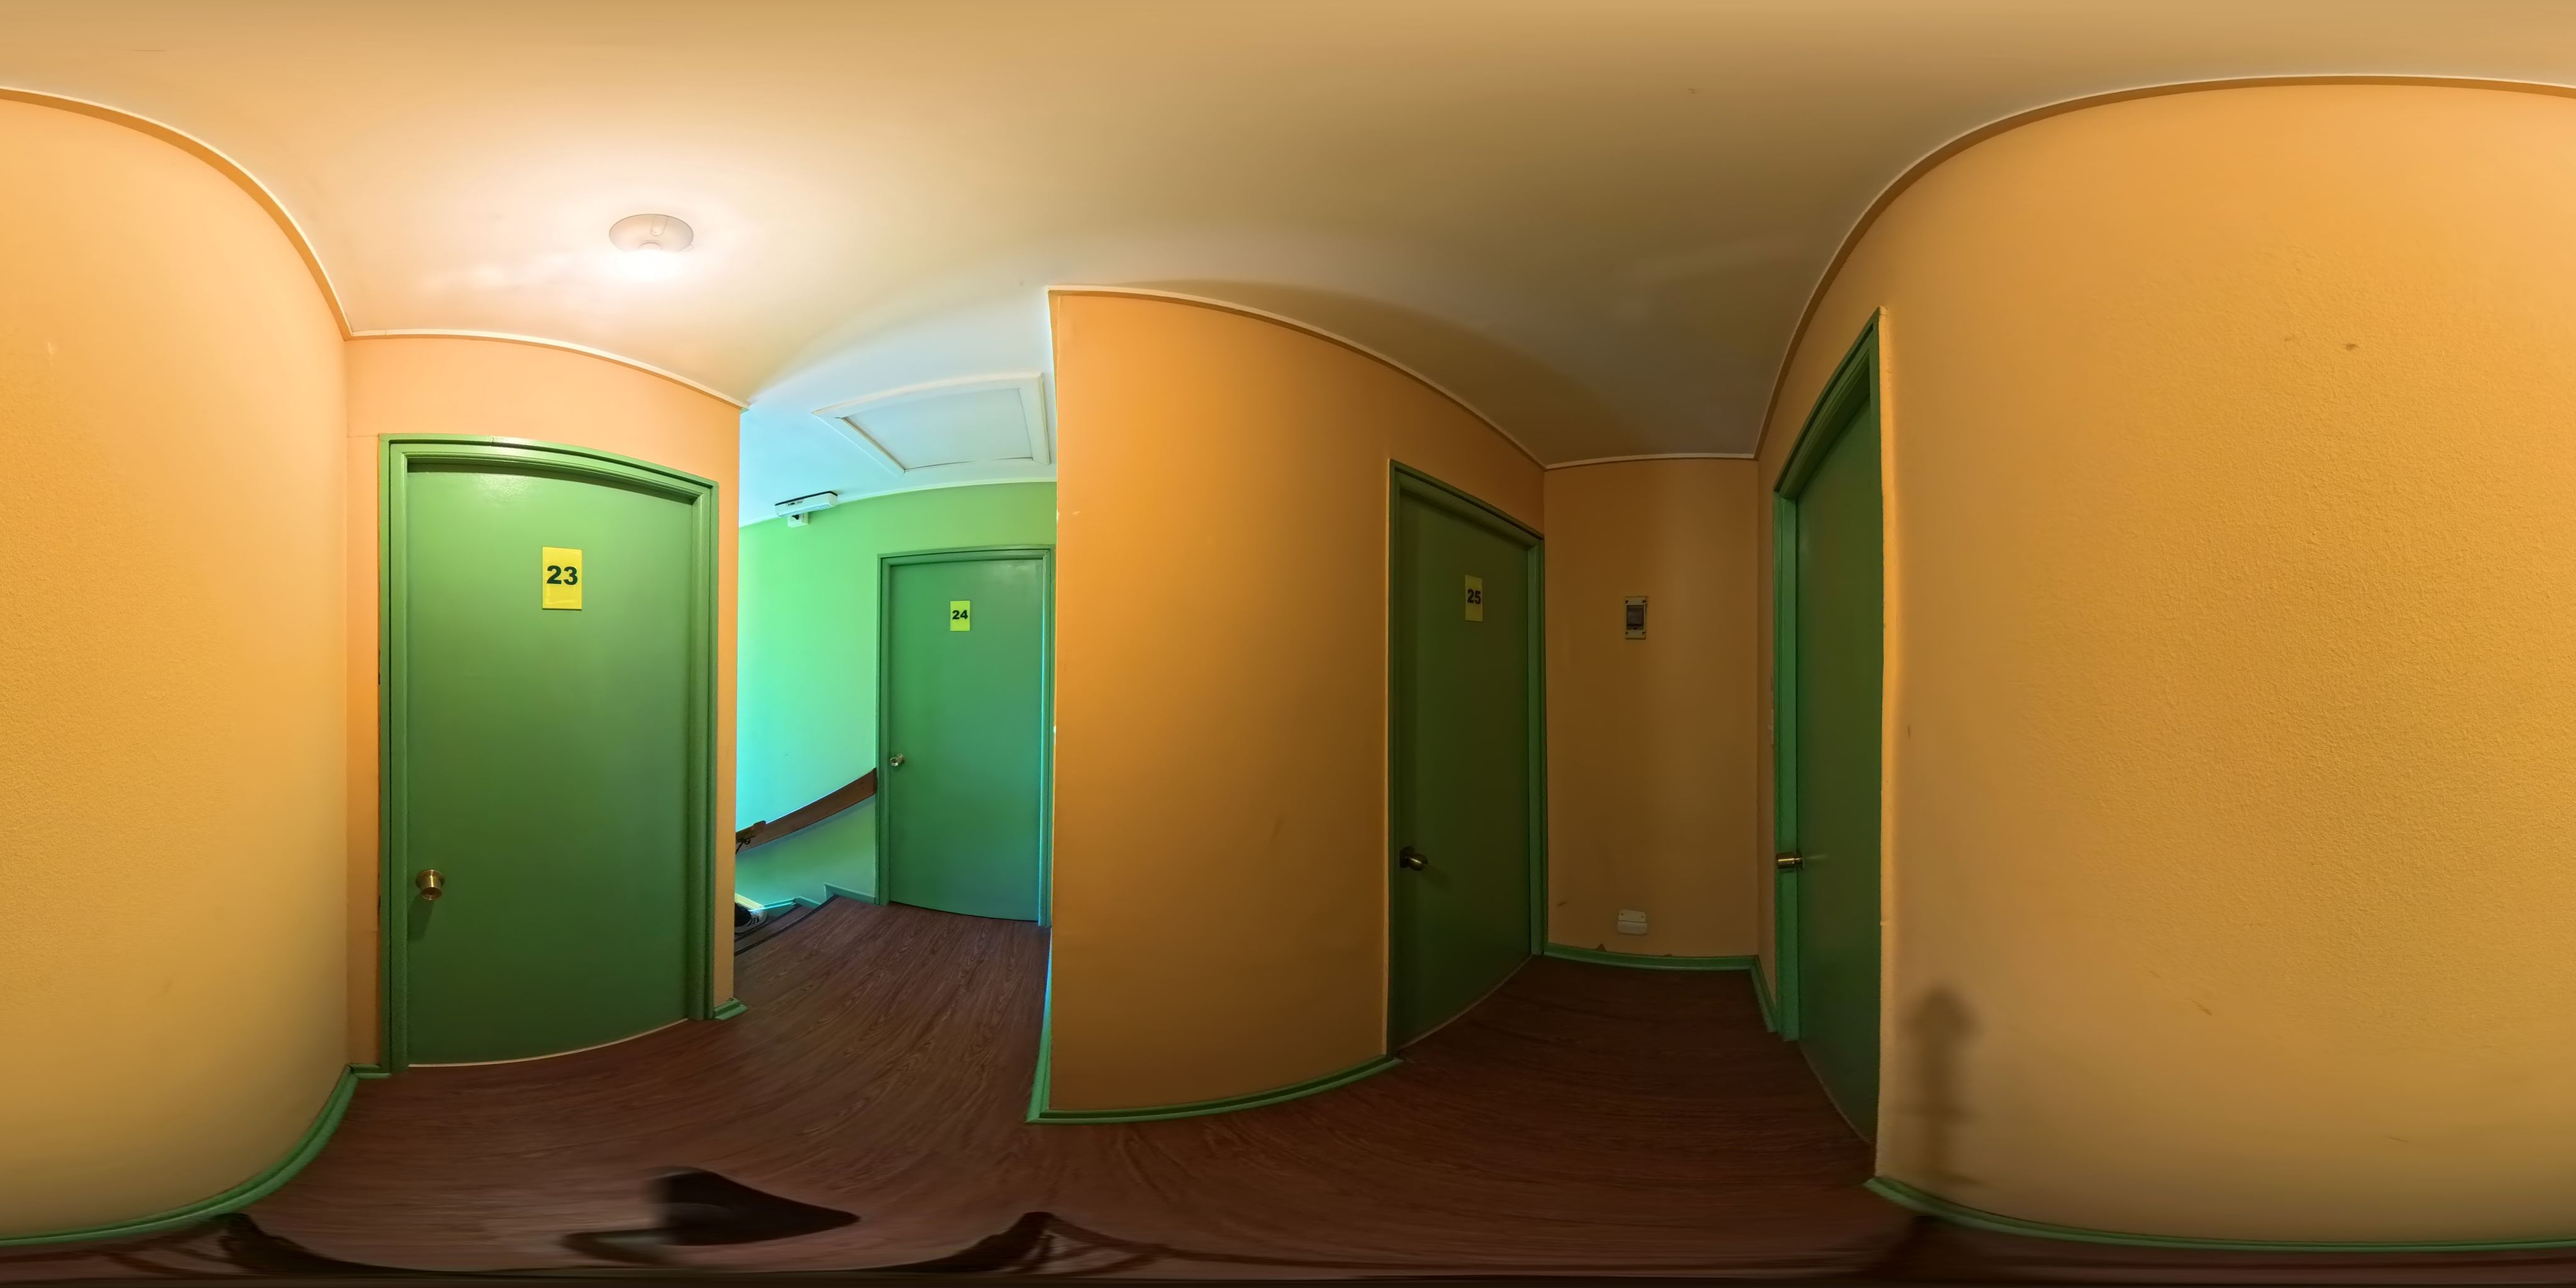
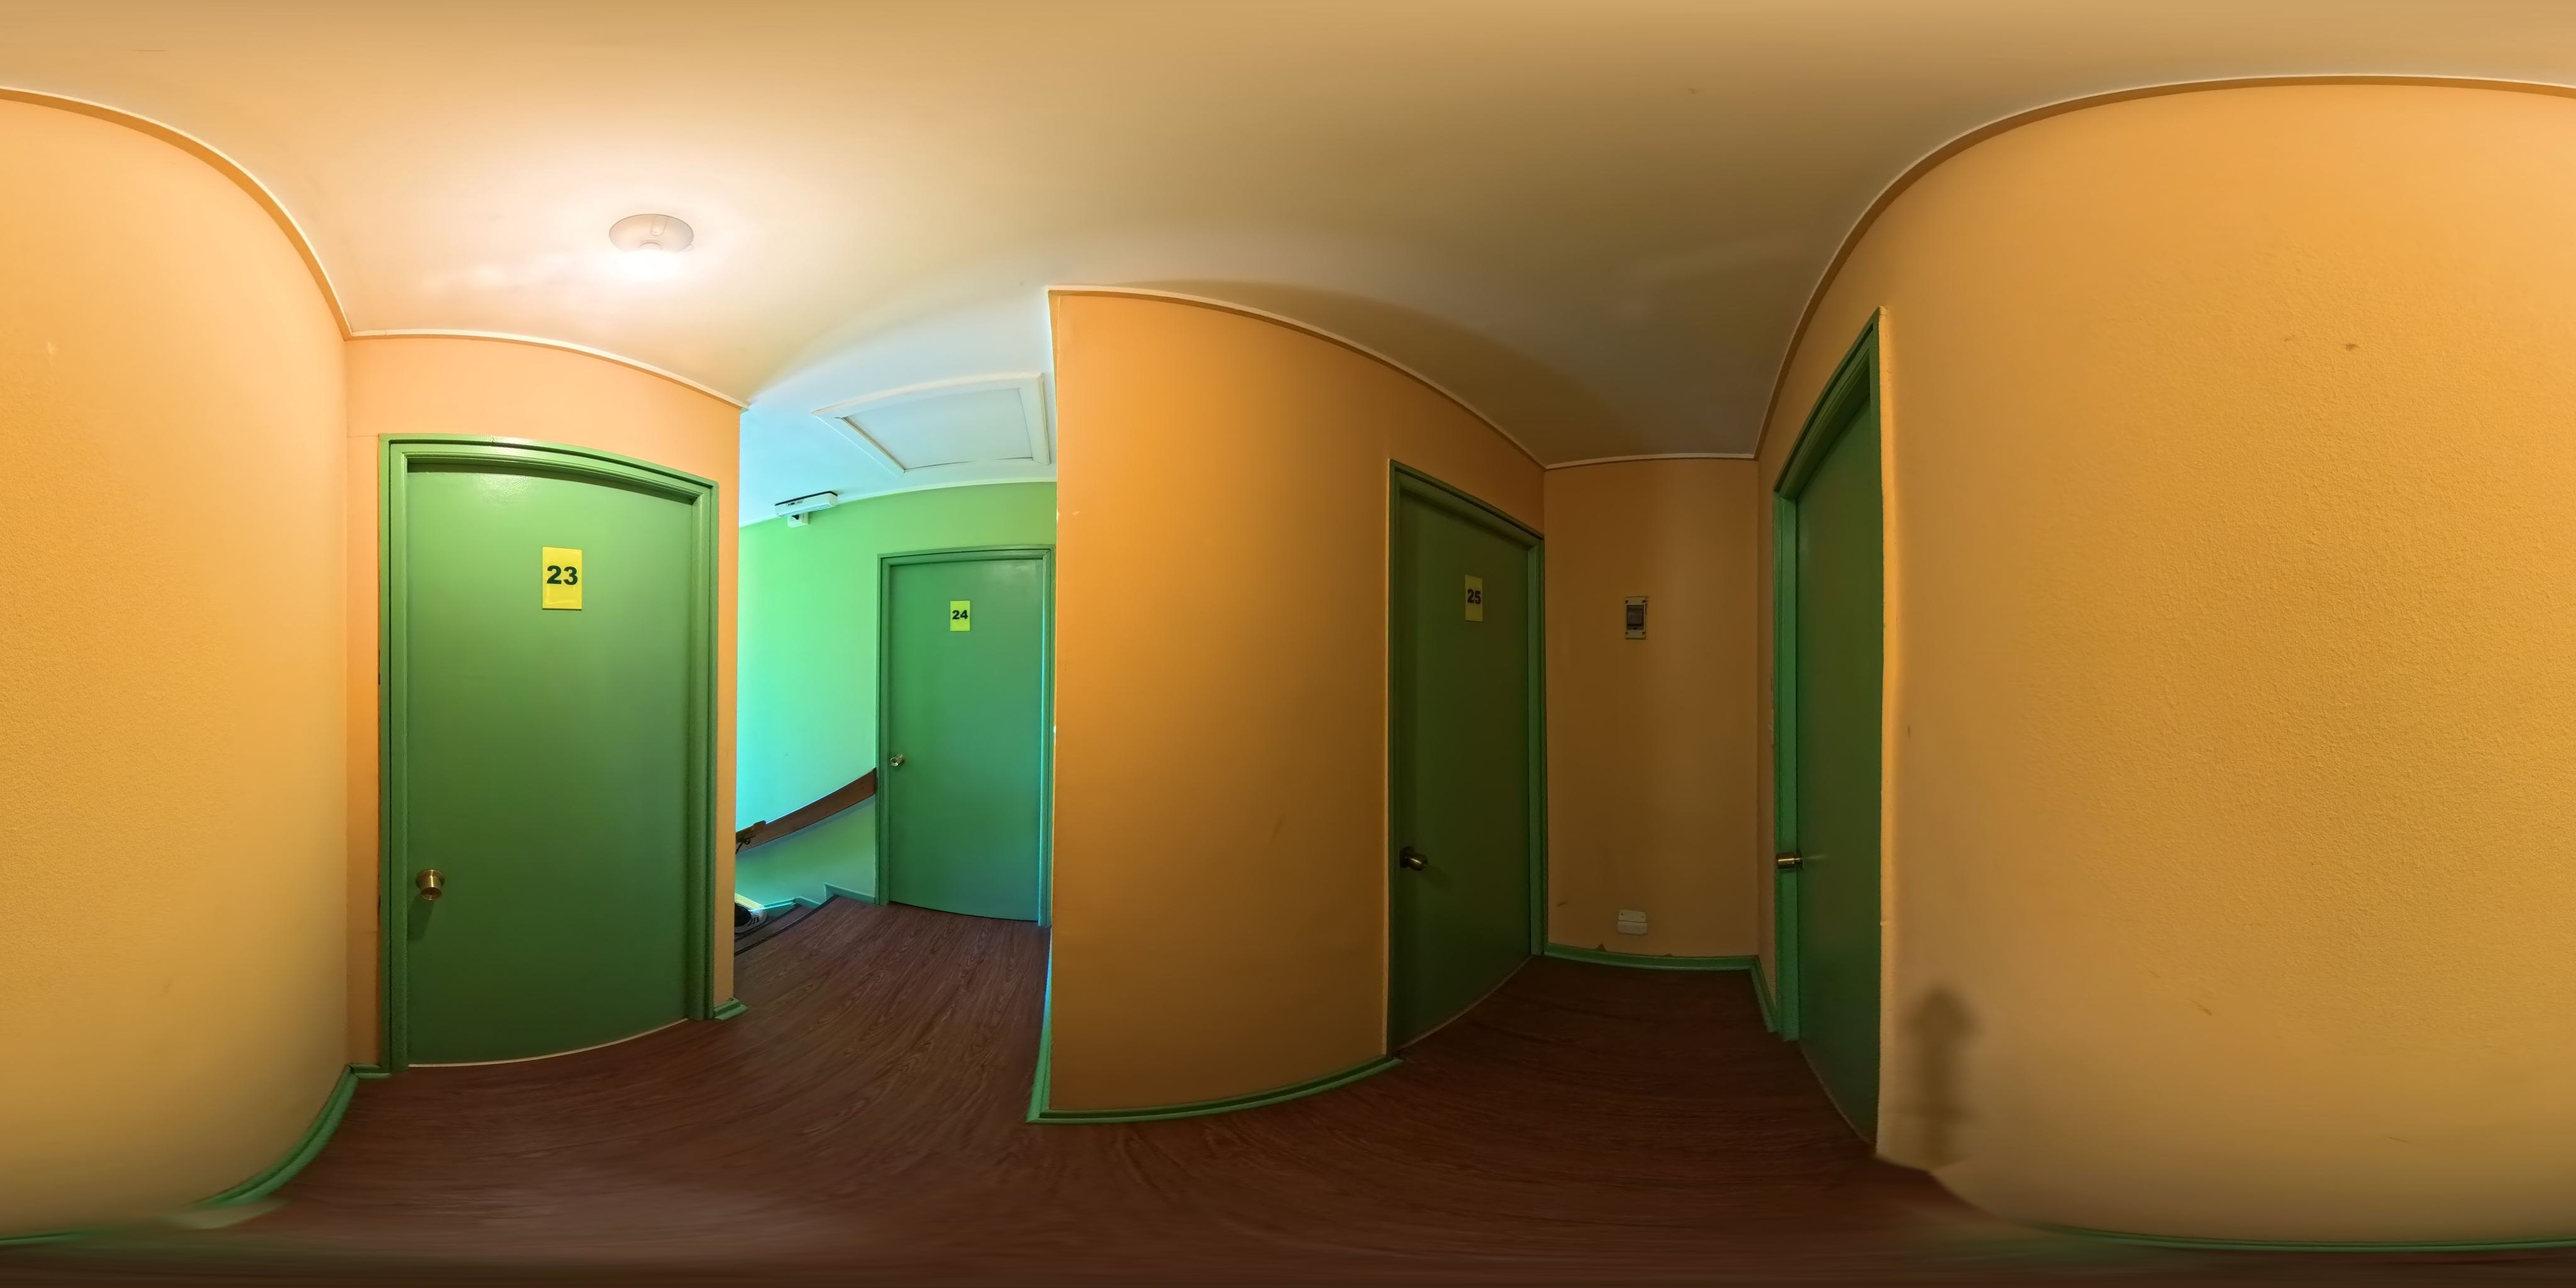
Placeres: habitación 23 con vista al mar, baño privado y pasillo del 3er piso sin trípode

Changed region(s): [[0.0312, 0.9062, 0.8438, 1.0]]

diff --git a/index.html b/index.html
@@ -1608,13 +1608,13 @@ const HOUSES = {
 };
 
 // Piezas que ya tienen foto 360 real: código de la pieza -> foto del recorrido
-const ROOM_TOURS = { "PO-21": { house: "pocuro", node: "pieza-21" } };
+const ROOM_TOURS = { "PO-21": { house: "pocuro", node: "pieza-21" }, "PL-23": { house: "placeres", node: "pieza-mar" } };
 
 const DEFAULT_ROOMS = [
   { code: "PL-01", house: "placeres", name: "Individual estándar", specs: ["Baño compartido", "9 m²", "Escritorio"], price: 210000, night: 28000, status: "ocupada", from: "", wall: "#d6dde3" },
   { code: "PL-02", house: "placeres", name: "Individual estándar", specs: ["Baño compartido", "10 m²", "Escritorio", "Ventana al cerro"], price: 220000, night: 30000, status: "libre", from: "", wall: "#dfe4d5" },
   { code: "PL-03", house: "placeres", name: "Individual con baño privado", specs: ["Baño privado", "12 m²", "Escritorio"], price: 250000, night: 36000, status: "pronto", from: "2027-03-01", wall: "#e6dccd" },
-  { code: "PL-04", house: "placeres", name: "Individual grande", specs: ["Baño privado", "15 m²", "Escritorio doble", "Clóset"], price: 290000, night: 40000, status: "libre", from: "", wall: "#d3e0e2" },
+  { code: "PL-23", house: "placeres", name: "Habitación con vista al mar", specs: ["Vista al mar", "Baño privado", "Cama 2 plazas", "Escritorio"], price: 290000, night: 40000, status: "libre", from: "", wall: "#d3e0e2" },
   { code: "PO-01", house: "pocuro", name: "Suite con baño privado", specs: ["Baño privado", "16 m²", "Cama 2 plazas"], price: 320000, night: 45000, status: "libre", from: "", wall: "#e4ddd3" },
   { code: "PO-02", house: "pocuro", name: "Habitación doble", specs: ["Baño privado", "18 m²", "2 camas"], price: 420000, night: 60000, status: "ocupada", from: "", wall: "#d9e2dc" },
   { code: "PO-21", house: "pocuro", name: "Habitación con balcón a la calle", specs: ["Balcón a la calle", "Cama 2 plazas", "Escritorio y TV"], price: 340000, night: 50000, status: "pronto", from: "2026-12-15", wall: "#dde2ea" }
@@ -1635,7 +1635,7 @@ const store = {
   set(k, v) { try { localStorage.setItem("casasvalpo:" + k, JSON.stringify(v)); } catch (e) {} }
 };
 
-let rooms = store.get("rooms-v2", null) || DEFAULT_ROOMS.map(r => ({ ...r }));
+let rooms = store.get("rooms-v5", null) || DEFAULT_ROOMS.map(r => ({ ...r }));
 let texts = store.get("texts", null) || JSON.parse(JSON.stringify(DEFAULT_TEXTS));
 let fromSheet = false;
 let leads = store.get("leads", null);
@@ -2158,7 +2158,7 @@ $("#ownerTable").addEventListener("change", e => {
   const r = rooms.find(x => x.code === (st || fr)); if (!r) return;
   if (st) { r.status = e.target.value; if (r.status === "pronto" && !r.from) r.from = "2027-03-01"; if (r.status !== "pronto") r.from = ""; }
   if (fr) r.from = e.target.value;
-  store.set("rooms-v2", rooms);
+  store.set("rooms-v5", rooms);
   render();
 });
 $$(".tabs button").forEach(b => b.addEventListener("click", () => {
@@ -2172,7 +2172,7 @@ $("#resetDemo").addEventListener("click", () => {
   leads = leads.filter(l => / \(ejemplo\)$/.test(l.name));
   rooms = DEFAULT_ROOMS.map(r => ({ ...r }));
   texts = JSON.parse(JSON.stringify(DEFAULT_TEXTS));
-  store.set("leads", leads); store.set("rooms-v2", rooms); store.set("texts", texts);
+  store.set("leads", leads); store.set("rooms-v5", rooms); store.set("texts", texts);
   render();
 });
 $("#openOwner").addEventListener("click", () => { $("#owner").hidden = false; $("#owner").scrollIntoView({ behavior: "smooth" }); });
@@ -2386,7 +2386,13 @@ const NODES = [
     info: [I("mesones", -125, -20, "Mesones", "Mesones en el hall del segundo piso.")] },
   { id: "escalera-3", name: "Escalera al 3er piso", tab: "3er piso", links: [L("hall-2", -172, -18, "Bajar al 2º piso"), L("tercero", -115, 8)], info: [] },
   { id: "tercero", name: "Llegada al 3er piso", tab: "3er piso", links: [L("escalera-3", 45, -35), L("pasillo-3", -70, -5)], info: [] },
-  { id: "pasillo-3", name: "Pasillo del 3er piso", tab: "3er piso", links: [L("tercero", -58, -15)], info: [] },
+  { id: "pasillo-3", name: "Pasillo del 3er piso", tab: "3er piso", links: [L("tercero", -58, -15), L("pieza-mar", -103, -10, "Habitación 23 · vista al mar")], info: [] },
+  { id: "pieza-mar", name: "Habitación 23 · vista al mar", tab: "3er piso", face: 0, pan: { yaw: 75, pitch: -12, delay: 2200 }, links: [L("pasillo-3", 140, -8, "Pasillo del 3er piso"), L("bano-23", 163, -8, "Baño privado")],
+    info: [I("mar", 3, 12, "Vista al mar", "Ventana mirando al mar, entre palmeras y techos del cerro."),
+           I("iglesia", -112, 10, "Vista a la iglesia", "Segunda ventana, hacia la iglesia y los edificios: luz desde dos lados."),
+           F(75, -22, "PL-23")] },
+  { id: "bano-23", name: "Baño privado de la habitación 23", tab: "3er piso", links: [L("pieza-mar", -50, -8, "Habitación 23")],
+    info: [I("bano", 30, 0, "Baño privado", "Baño solo para la habitación 23, con ducha.")] },
 
   { id: "terraza", name: "Pasarela del patio", tab: "Ala del patio", links: [L("patio", -140, -28), L("pasillo", 0, -6), L("pasillo-2", 168, -5), L("ala-12", -168, -5)], info: [] },
   { id: "pasillo-2", name: "Ala del patio", tab: "Ala del patio", links: [L("terraza", 60, -5), L("ala-14", -45, -5), L("ala-12", 152, -5)], info: [] },
